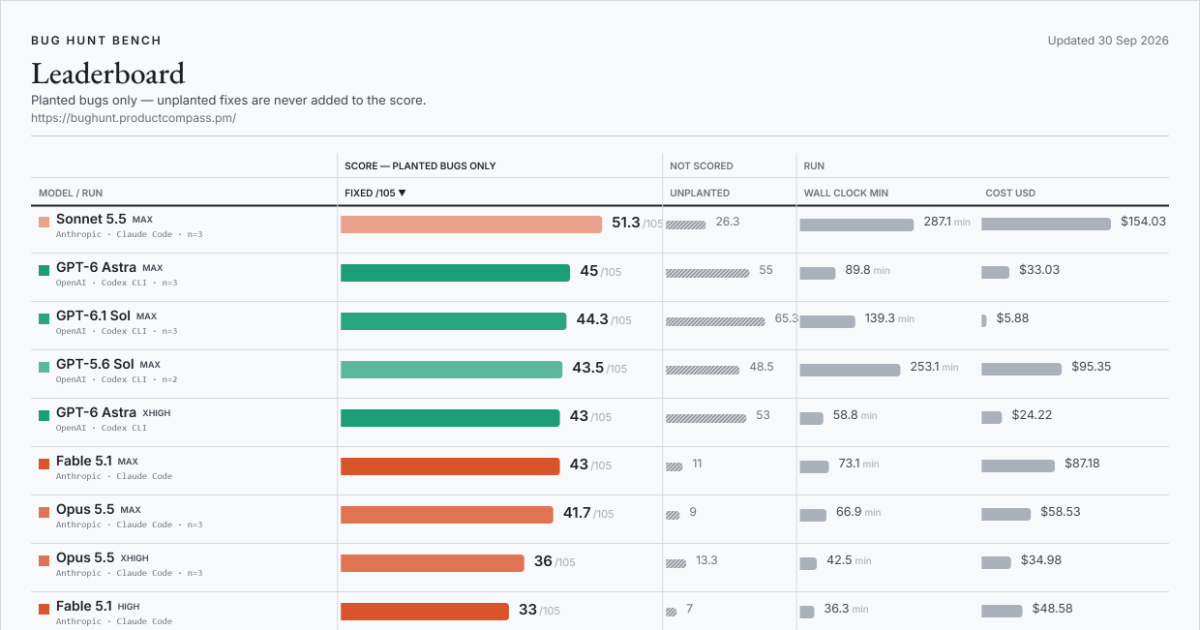
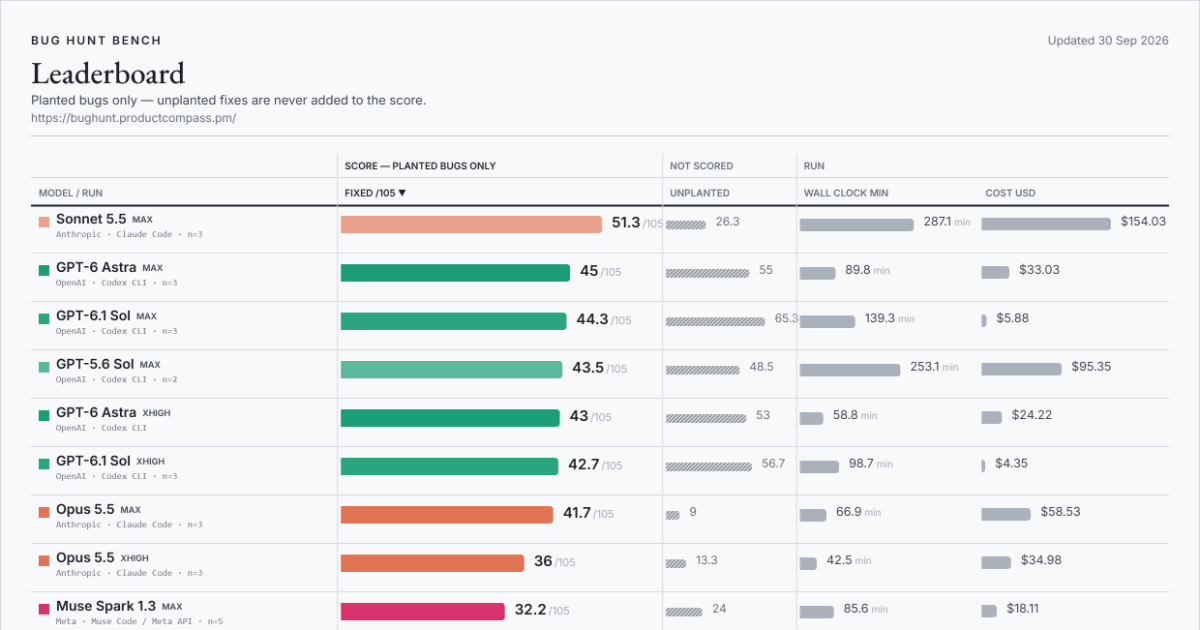
Default view re-cut: GPT-6.1 Sol, GPT-6 Astra, Opus 5.5 at max+xhigh; GPT-6 Sol, Fable, Opus 5, Grok 4.6, Pareto unfeatured

diff --git a/index.html b/index.html
@@ -22,14 +22,14 @@
 <meta property="og:title" content="Bug Hunt Bench — frontier coding models against real planted bugs">
 <meta property="og:description" content="A blind-graded benchmark of frontier coding models on real bugs planted in two production codebases. The score counts planted bugs only; extra fixes are tracked separately and never added.">
 <meta property="og:url" content="https://bughunt.productcompass.pm/">
-<meta property="og:image" content="https://bughunt.productcompass.pm/og-image.png?v=2026-09-30-ecdd627b">
+<meta property="og:image" content="https://bughunt.productcompass.pm/og-image.png?v=2026-09-30-98f18cbd">
 <meta property="og:image:width" content="1200">
 <meta property="og:image:height" content="630">
 <meta property="og:image:alt" content="Bug Hunt Bench leaderboard">
 <meta name="twitter:card" content="summary_large_image">
 <meta name="twitter:title" content="Bug Hunt Bench — frontier coding models against real planted bugs">
 <meta name="twitter:description" content="A blind-graded benchmark of frontier coding models on real bugs planted in two production codebases. The score counts planted bugs only.">
-<meta name="twitter:image" content="https://bughunt.productcompass.pm/og-image.png?v=2026-09-30-ecdd627b">
+<meta name="twitter:image" content="https://bughunt.productcompass.pm/og-image.png?v=2026-09-30-98f18cbd">
 <meta name="twitter:creator" content="@PawelHuryn">
 
 <link rel="icon" href="/assets/favicon.svg" type="image/svg+xml">

diff --git a/method.html b/method.html
@@ -20,14 +20,14 @@
 <meta property="og:title" content="Method, caveats and definitions — Bug Hunt Bench">
 <meta property="og:description" content="How Bug Hunt Bench is run and graded, what the board cannot tell you, and what every column on it means.">
 <meta property="og:url" content="https://bughunt.productcompass.pm/method">
-<meta property="og:image" content="https://bughunt.productcompass.pm/og-image.png?v=2026-09-30-ecdd627b">
+<meta property="og:image" content="https://bughunt.productcompass.pm/og-image.png?v=2026-09-30-98f18cbd">
 <meta property="og:image:width" content="1200">
 <meta property="og:image:height" content="630">
 <meta property="og:image:alt" content="Bug Hunt Bench leaderboard">
 <meta name="twitter:card" content="summary_large_image">
 <meta name="twitter:title" content="Method, caveats and definitions — Bug Hunt Bench">
 <meta name="twitter:description" content="How Bug Hunt Bench is run and graded, what the board cannot tell you, and what every column on it means.">
-<meta name="twitter:image" content="https://bughunt.productcompass.pm/og-image.png?v=2026-09-30-ecdd627b">
+<meta name="twitter:image" content="https://bughunt.productcompass.pm/og-image.png?v=2026-09-30-98f18cbd">
 <meta name="twitter:creator" content="@PawelHuryn">
 
 <link rel="icon" href="/assets/favicon.svg" type="image/svg+xml">

diff --git a/results/waves.md b/results/waves.md
@@ -3818,3 +3818,15 @@ OpenAI's GPT-6.1 Sol went on the board the night it became reachable on a ChatGP
 | GPT-6.1 Sol (low effort) | 1 | **31** / 105 | 15 / 45 | 16 / 60 | 32 | 36.5 min | $1.77 | 91 |
 | GPT-6.1 Sol (max effort) - mean of 3 | mean of 3 | **44.3** / 105 | 22.3 / 45 | 22 / 60 | 65.3 | 139.3 min | $5.88 | 270 |
 | GPT-6.1 Sol (xhigh effort) - mean of 3 | mean of 3 | **42.7** / 105 | 22.3 / 45 | 20.3 / 60 | 56.7 | 98.7 min | $4.35 | 200 |
+
+## The default view, re-cut, and the run count corrected (Sep 30)
+
+**Default view.** Pawel re-cut the Featured preset: GPT-6.1 Sol, GPT-6 Astra and Opus 5.5 are featured at max
+and xhigh only (GPT-6.1 Sol xhigh joins, Opus 5.5 high leaves), and GPT-6 Sol, Fable 5.1, Opus 5, Grok 4.6 and
+Pareto (ex-Union Alpha) are no longer featured at any tier. Default view: 29 → 21 rows. Nothing is removed -
+every row is still on the board under All runs, and featuring stays a decision, not a score (Sep 16).
+
+**Run count.** The headline said 253 runs; the board publishes 192. The count summed the runs behind every
+row, and a superseded single's run is also a member of the mean that replaced it - Sonnet 5.5 at max counted
+1 + 2 + 3 = 6 for its three runs. Each run is now counted once, live or superseded: the same set the per-run
+receipt table lists one line per run. No score, row or ranking changed.

diff --git a/README.md b/README.md
@@ -7,7 +7,7 @@
 If the numbers save you a benchmark run of your own, **star this repo** — that is what keeps the bench findable, and new models are added as they ship.
 
 <!-- leaderboard:start -->
-![Bug Hunt Bench leaderboard, the featured runs, updated Sep 30, 2026](assets/leaderboard.png?v=2026-09-30-970edcb7)
+![Bug Hunt Bench leaderboard, the featured runs, updated Sep 30, 2026](assets/leaderboard.png?v=2026-09-30-cc6d8970)
 
 **Updated Sep 30, 2026 · 161 rows from 192 scored runs · 40 models · 29 of 105 bugs have never been fixed by any model.**
 
